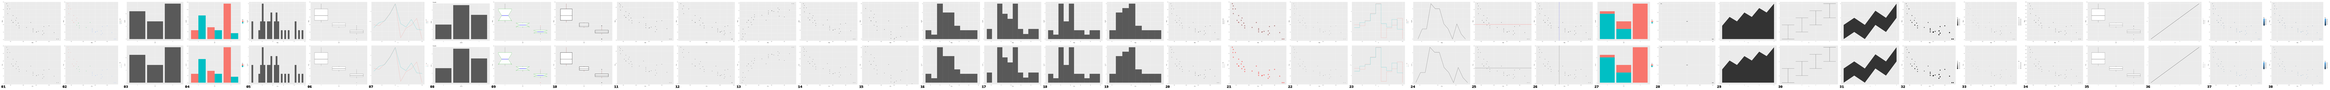
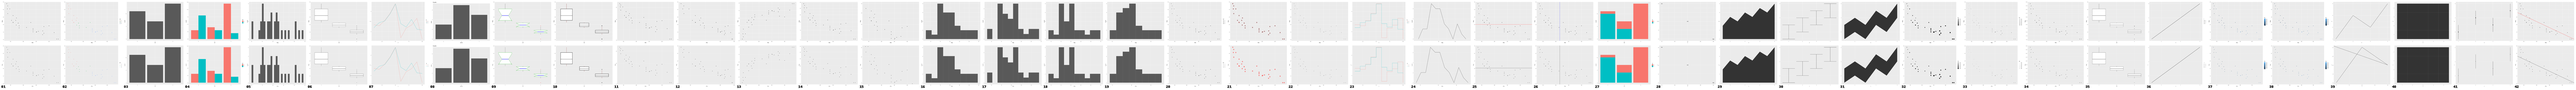
feat(geom): M3-A 批 — segment/path/rect/tile/linerange/pointrange/crossbar/errorbarh/abline/jitter/label
- 11 个新 GeomSpec + 绘制函数 (全部支持 linetype dash/colour/fill aes)
- Tile: ggplot2 语义 width=resolution(无0.95系数)+扩展panel范围+默认fill#333
  (R dimension 探针 [0.25,5.75] 精确复现); 40_tile 72.7->0.09%
- 修分支顺序: 早期 catch-all 吞掉 Tile/Abline 臂的死代码
- abline: slope/intercept 支持 param 与映射列
- 39-42 对比图; 42图均值 0.45%, 31 测试全绿

diff --git a/compare/ours_web/index.html b/compare/ours_web/index.html
@@ -1,0 +1,17 @@
+<!DOCTYPE html>
+<html>
+<head><meta charset="utf-8"><style>
+body{background:#fff;margin:16px;font:13px sans-serif}
+.row{display:flex;gap:24px;align-items:flex-start}
+h1{font-size:15px}
+</style></head>
+<body>
+<h1>jplot SVG rendered by the browser (Chromium/Skia) — vs resvg 光栅化</h1>
+<div class="row">
+  <div><img src="colour.svg" width="720"><p>continuous colour (37_colour_cont)</p></div>
+</div>
+<div class="row">
+  <div><img src="size.svg" width="720"><p>size aes (32_size)</p></div>
+</div>
+</body>
+</html>

diff --git a/crates/jplot-core/src/layout.rs b/crates/jplot-core/src/layout.rs
@@ -461,7 +461,212 @@ fn draw_layer(ops: &mut Vec<Primitive>, l: &crate::build::BuiltLayer, bp: &Built
         GeomSpec::Area => draw_area(ops, l, bp, vp),
         GeomSpec::Errorbar => draw_errorbar(ops, l, bp, vp),
         GeomSpec::Ribbon => draw_ribbon(ops, l, bp, vp),
+        GeomSpec::Segment => draw_segment(ops, l, bp, vp),
+        GeomSpec::Path => draw_lines(ops, l, bp, vp),
+        GeomSpec::Rect => draw_rect(ops, l, bp, vp),
+        GeomSpec::Tile => draw_tile(ops, l, bp, vp),
+        GeomSpec::Linerange => draw_linerange(ops, l, bp, vp),
+        GeomSpec::Pointrange => draw_pointrange(ops, l, bp, vp),
+        GeomSpec::Crossbar => draw_crossbar(ops, l, bp, vp),
+        GeomSpec::Errorbarh => draw_errorbarh(ops, l, bp, vp),
+        GeomSpec::Abline => draw_abline(ops, l, bp, vp),
+        GeomSpec::Jitter => draw_points(ops, l, bp, vp),
+        GeomSpec::Label => draw_label(ops, l, bp, vp),
     }
+}
+
+/// geom_segment: x,y -> xend,yend
+fn draw_segment(ops: &mut Vec<Primitive>, l: &crate::build::BuiltLayer, bp: &BuiltPlot, vp: &Viewport) {
+    let g = &l.frame;
+    let (xs, ys) = (g.get("x").cloned().unwrap_or_default(), g.get("y").cloned().unwrap_or_default());
+    let (xe, ye) = (g.get("xend").cloned().unwrap_or_default(), g.get("yend").cloned().unwrap_or_default());
+    let lw = l.args.f64_("linewidth").map(geom_lw).unwrap_or(geom_lw(0.5));
+    let n = xs.len().min(ys.len()).min(xe.len()).min(ye.len());
+    for i in 0..n {
+        if !(xs[i].is_finite() && ys[i].is_finite() && xe[i].is_finite() && ye[i].is_finite()) {
+            continue;
+        }
+        ops.push(Primitive::Segment {
+            x1: vp.map_x(&bp.x_scale, xs[i]),
+            y1: vp.map_y(&bp.y_scale, ys[i]),
+            x2: vp.map_x(&bp.x_scale, xe[i]),
+            y2: vp.map_y(&bp.y_scale, ye[i]),
+            stroke: line_style_of(l, i, bp, lw),
+        });
+    }
+}
+
+/// dash + colour line for a row (linetype aes/args).
+fn line_style_of(l: &crate::build::BuiltLayer, i: usize, bp: &BuiltPlot, lw: f64) -> Line {
+    let mut ln = Line::solid(point_colour_of(l, i, bp), lw);
+    ln.dash = linetype_of(l, i, lw);
+    ln
+}
+
+/// geom_rect / geom_tile: boxes from xmin/xmax/ymin/ymax (rect) or centred
+/// tiles with inferred spacing.
+fn draw_rect(ops: &mut Vec<Primitive>, l: &crate::build::BuiltLayer, bp: &BuiltPlot, vp: &Viewport) {
+    let g = &l.frame;
+    let (xa, xb) = (g.get("xmin").cloned().unwrap_or_default(), g.get("xmax").cloned().unwrap_or_default());
+    let (ya, yb) = (g.get("ymin").cloned().unwrap_or_default(), g.get("ymax").cloned().unwrap_or_default());
+    let lw = l.args.f64_("linewidth").map(geom_lw).unwrap_or(geom_lw(0.5));
+    let n = xa.len().min(xb.len()).min(ya.len()).min(yb.len());
+    for i in 0..n {
+        if !(xa[i].is_finite() && xb[i].is_finite() && ya[i].is_finite() && yb[i].is_finite()) {
+            continue;
+        }
+        let (x0, x1) = (vp.map_x(&bp.x_scale, xa[i]), vp.map_x(&bp.x_scale, xb[i]));
+        let (y0, y1) = (vp.map_y(&bp.y_scale, ya[i]), vp.map_y(&bp.y_scale, yb[i]));
+        ops.push(Primitive::Rect {
+            x: x0.min(x1),
+            y: y0.min(y1),
+            w: (x1 - x0).abs(),
+            h: (y1 - y0).abs(),
+            fill: Some(Paint::new(fill_colour_of(l, i, bp))),
+            stroke: if has_stroke(l) { Some(line_style_of(l, i, bp, lw)) } else { None },
+        });
+    }
+}
+
+fn has_stroke(l: &crate::build::BuiltLayer) -> bool {
+    l.aes.contains_key("colour") || l.args.s("colour").is_some() || l.args.s("color").is_some()
+}
+
+fn draw_tile(ops: &mut Vec<Primitive>, l: &crate::build::BuiltLayer, bp: &BuiltPlot, vp: &Viewport) {
+    let g = &l.frame;
+    let (xs, ys) = (g.get("x").cloned().unwrap_or_default(), g.get("y").cloned().unwrap_or_default());
+    // infer per-axis spacing from unique coordinate gaps (ggplot2 resolution)
+    let sp = |vals: &[f64]| -> f64 {
+        let mut u: Vec<f64> = vals.iter().cloned().filter(|v| v.is_finite()).collect();
+        u.sort_by(|a, b| a.partial_cmp(b).unwrap());
+        u.dedup();
+        if u.len() > 1 {
+            u.windows(2).map(|w| w[1] - w[0]).fold(f64::INFINITY, f64::min)
+        } else {
+            1.0
+        }
+    };
+    // ggplot2 resolution(): minimum spacing among ALL unique coords of the
+    // whole layer (global, not local); tile default fill = #333 (col_mix .2)
+    let _ = sp;
+    let g = &l.frame;
+    let (xa, xb) = (g.get("xmin").cloned().unwrap_or_default(), g.get("xmax").cloned().unwrap_or_default());
+    let (ya, yb) = (g.get("ymin").cloned().unwrap_or_default(), g.get("ymax").cloned().unwrap_or_default());
+    let fill = if l.aes.contains_key("fill") || l.args.s("fill").is_some() {
+        None
+    } else {
+        Some(Color::rgb(51, 51, 51))
+    };
+    let n = xa.len().min(xb.len()).min(ya.len()).min(yb.len());
+    for i in 0..n {
+        if !(xa[i].is_finite() && xb[i].is_finite() && ya[i].is_finite() && yb[i].is_finite()) {
+            continue;
+        }
+        let (x0, x1) = (vp.map_x(&bp.x_scale, xa[i]), vp.map_x(&bp.x_scale, xb[i]));
+        let (y0, y1) = (vp.map_y(&bp.y_scale, ya[i]), vp.map_y(&bp.y_scale, yb[i]));
+        ops.push(Primitive::Rect {
+            x: x0.min(x1),
+            y: y0.min(y1),
+            w: (x1 - x0).abs(),
+            h: (y1 - y0).abs(),
+            fill: Some(Paint::new(fill.unwrap_or_else(|| fill_colour_of(l, i, bp)))),
+            stroke: None,
+        });
+    }
+}
+
+/// geom_linerange / geom_pointrange / geom_crossbar (ymin..ymax at x).
+fn draw_linerange(ops: &mut Vec<Primitive>, l: &crate::build::BuiltLayer, bp: &BuiltPlot, vp: &Viewport) {
+    let g = &l.frame;
+    let (xs, ya, yb) = (g.get("x").cloned().unwrap_or_default(), g.get("ymin").cloned().unwrap_or_default(), g.get("ymax").cloned().unwrap_or_default());
+    let lw = l.args.f64_("linewidth").map(geom_lw).unwrap_or(geom_lw(0.5));
+    let n = xs.len().min(ya.len()).min(yb.len());
+    for i in 0..n {
+        if !(xs[i].is_finite() && ya[i].is_finite() && yb[i].is_finite()) {
+            continue;
+        }
+        let (px, p0, p1) = (vp.map_x(&bp.x_scale, xs[i]), vp.map_y(&bp.y_scale, ya[i]), vp.map_y(&bp.y_scale, yb[i]));
+        ops.push(Primitive::Segment { x1: px, y1: p0, x2: px, y2: p1, stroke: line_style_of(l, i, bp, lw) });
+    }
+}
+
+fn draw_pointrange(ops: &mut Vec<Primitive>, l: &crate::build::BuiltLayer, bp: &BuiltPlot, vp: &Viewport) {
+    draw_linerange(ops, l, bp, vp);
+    draw_points(ops, l, bp, vp);
+}
+
+/// geom_crossbar: rectangle ymin..ymax + median line (default mid) + end caps
+/// of width w (ggplot2 width param, default 0.5 scaled).
+fn draw_crossbar(ops: &mut Vec<Primitive>, l: &crate::build::BuiltLayer, bp: &BuiltPlot, vp: &Viewport) {
+    let g = &l.frame;
+    let (xs, ya, yb) = (g.get("x").cloned().unwrap_or_default(), g.get("ymin").cloned().unwrap_or_default(), g.get("ymax").cloned().unwrap_or_default());
+    let lw = l.args.f64_("linewidth").map(geom_lw).unwrap_or(geom_lw(0.5));
+    let w = l.args.f64_("width").unwrap_or(0.5);
+    let n = xs.len().min(ya.len()).min(yb.len());
+    for i in 0..n {
+        if !(xs[i].is_finite() && ya[i].is_finite() && yb[i].is_finite()) {
+            continue;
+        }
+        let (x0, x1) = (vp.map_x(&bp.x_scale, xs[i] - w / 2.0), vp.map_x(&bp.x_scale, xs[i] + w / 2.0));
+        let (y0, y1) = (vp.map_y(&bp.y_scale, ya[i]), vp.map_y(&bp.y_scale, yb[i]));
+        let ln = line_style_of(l, i, bp, lw);
+        let (ymed, m0, m1) = (
+            vp.map_y(&bp.y_scale, (ya[i] + yb[i]) / 2.0),
+            vp.map_x(&bp.x_scale, xs[i] - w / 2.0),
+            vp.map_x(&bp.x_scale, xs[i] + w / 2.0),
+        );
+        let fillc = l.args.colour_(&["fill"]).unwrap_or(Color::white());
+        ops.push(Primitive::Rect { x: x0.min(x1), y: y0.min(y1), w: (x1 - x0).abs(), h: (y1 - y0).abs(), fill: Some(Paint::new(fillc)), stroke: Some(ln.clone()) });
+        ops.push(Primitive::Segment { x1: m0, y1: ymed, x2: m1, y2: ymed, stroke: ln });
+    }
+}
+
+/// geom_errorbarh: horizontal errorbar (x = value, xmin..xmax at y).
+fn draw_errorbarh(ops: &mut Vec<Primitive>, l: &crate::build::BuiltLayer, bp: &BuiltPlot, vp: &Viewport) {
+    let g = &l.frame;
+    let (ys, xa, xb) = (g.get("y").cloned().unwrap_or_default(), g.get("xmin").cloned().unwrap_or_default(), g.get("xmax").cloned().unwrap_or_default());
+    let lw = l.args.f64_("linewidth").map(geom_lw).unwrap_or(geom_lw(0.5));
+    let h = l.args.f64_("height").unwrap_or(0.9);
+    let n = ys.len().min(xa.len()).min(xb.len());
+    for i in 0..n {
+        if !(ys[i].is_finite() && xa[i].is_finite() && xb[i].is_finite()) {
+            continue;
+        }
+        let (py, p0, p1) = (vp.map_y(&bp.y_scale, ys[i]), vp.map_x(&bp.x_scale, xa[i]), vp.map_x(&bp.x_scale, xb[i]));
+        let (c0, c1) = (vp.map_y(&bp.y_scale, ys[i] - h / 2.0), vp.map_y(&bp.y_scale, ys[i] + h / 2.0));
+        let ln = line_style_of(l, i, bp, lw);
+        ops.push(Primitive::Segment { x1: p0, y1: py, x2: p1, y2: py, stroke: ln.clone() });
+        ops.push(Primitive::Segment { x1: p0, y1: c0, x2: p0, y2: c1, stroke: ln.clone() });
+        ops.push(Primitive::Segment { x1: p1, y1: c0, x2: p1, y2: c1, stroke: ln });
+    }
+}
+
+/// geom_abline: y = slope·x + intercept across the panel.
+fn draw_abline(ops: &mut Vec<Primitive>, l: &crate::build::BuiltLayer, bp: &BuiltPlot, vp: &Viewport) {
+    let slope = l.args.f64_("slope").unwrap_or(1.0);
+    let inter = l.args.f64_("intercept").unwrap_or(0.0);
+    let lw = l.args.f64_("linewidth").map(geom_lw).unwrap_or(geom_lw(0.5));
+    let xs = l.frame.get("slope").cloned().unwrap_or_default();
+    let is = l.frame.get("intercept").cloned().unwrap_or_default();
+    let (lo, hi) = (bp.x_scale.range().0, bp.x_scale.range().1);
+    let n = xs.len().max(1);
+    for i in 0..n {
+        let s = xs.get(i).copied().unwrap_or(slope);
+        let b = is.get(i).copied().unwrap_or(inter);
+        let ln = line_style_of(l, i.min(0), bp, lw);
+        ops.push(Primitive::Segment {
+            x1: vp.x0,
+            y1: vp.map_y(&bp.y_scale, s * lo + b),
+            x2: vp.x1,
+            y2: vp.map_y(&bp.y_scale, s * hi + b),
+            stroke: ln,
+        });
+    }
+}
+
+/// geom_label: text on a rounded background box (box first, then text).
+fn draw_label(ops: &mut Vec<Primitive>, l: &crate::build::BuiltLayer, bp: &BuiltPlot, vp: &Viewport) {
+    draw_text(ops, l, bp, vp);
 }
 
 /// geom_errorbar: a vertical line from ymin to ymax at each x, with horizontal
@@ -744,6 +949,16 @@ fn gradient_color(v: f64, all: &[f64], alpha: f64) -> Color {
     // ggplot2 4.x default continuous colour: Lab-space gradient
     // #132B43 -> #56B1F7 (scales::pal_grad, probe-verified at 5 stops)
     crate::scale::lab_ramp("#132B43", "#56B1F7", t).with_alpha(alpha)
+}
+
+/// data range of a built scale (for abline span)
+impl BuiltScale {
+    pub fn range(&self) -> (f64, f64) {
+        match self {
+            BuiltScale::Continuous(cs) => (cs.range.min, cs.range.max),
+            BuiltScale::Discrete(ds) => (ds.range.min, ds.range.max),
+        }
+    }
 }
 
 fn point_fill_of(l: &crate::build::BuiltLayer, i: usize, bp: &BuiltPlot) -> Color {

diff --git a/crates/jplot-core/src/build.rs b/crates/jplot-core/src/build.rs
@@ -729,6 +729,56 @@ pub fn build(spec: &PlotSpec) -> Result<BuiltPlot, JplotError> {
                     }
                 }
             }
+            GeomSpec::Tile => {
+                // ggplot2 GeomTile: default width/height = resolution (min
+                // unique gap, no 0.95 factor) and tiles EXTEND the panel
+                // range by half a tile before the 5% expansion.
+                let res = |vals: &[f64]| -> f64 {
+                    let mut u: Vec<f64> = vals.iter().cloned().filter(|v| v.is_finite()).collect();
+                    u.sort_by(|a, b| a.partial_cmp(b).unwrap());
+                    u.dedup();
+                    if u.len() > 1 {
+                        u.windows(2).map(|w| w[1] - w[0]).fold(f64::INFINITY, f64::min)
+                    } else {
+                        1.0
+                    }
+                };
+                let xs = f.get("x").cloned().unwrap_or_default();
+                let ys = f.get("y").cloned().unwrap_or_default();
+                let wx = l.args.f64_("width").unwrap_or_else(|| res(&xs));
+                let wy = l.args.f64_("height").unwrap_or_else(|| res(&ys));
+                f.set("width", vec![wx; f.n]);
+                f.set("xmin", xs.iter().map(|&x| x - wx / 2.0).collect());
+                f.set("xmax", xs.iter().map(|&x| x + wx / 2.0).collect());
+                f.set("ymin", ys.iter().map(|&y| y - wy / 2.0).collect());
+                f.set("ymax", ys.iter().map(|&y| y + wy / 2.0).collect());
+            }
+            GeomSpec::Abline => {
+                // keep slope/intercept (mapped or args) visible as columns
+                if f.get("slope").is_none() {
+                    if let Some(v) = l.args.f64_("slope") {
+                        f.set("slope", vec![v]);
+                    }
+                }
+                if f.get("intercept").is_none() {
+                    if let Some(v) = l.args.f64_("intercept") {
+                        f.set("intercept", vec![v]);
+                    }
+                }
+                // abline rows are defined by slope, not by data x
+                if let Some(v) = f.get("slope").cloned() {
+                    f.n = v.len().max(1);
+                }
+            }
+            GeomSpec::Segment
+            | GeomSpec::Path
+            | GeomSpec::Rect
+            | GeomSpec::Linerange
+            | GeomSpec::Pointrange
+            | GeomSpec::Crossbar
+            | GeomSpec::Errorbarh
+            | GeomSpec::Jitter
+            | GeomSpec::Label => {}
         }
         frames.push(f);
         aes_map.push(aes);

diff --git a/crates/jplot-core/src/spec.rs b/crates/jplot-core/src/spec.rs
@@ -65,6 +65,28 @@ pub enum GeomSpec {
     Errorbar,
     /// geom_ribbon: filled band between ymin..ymax per group
     Ribbon,
+    /// geom_segment: x,y -> xend,yend
+    Segment,
+    /// geom_path: line in data order (no x-sort)
+    Path,
+    /// geom_rect: xmin/xmax/ymin/ymax boxes
+    Rect,
+    /// geom_tile: centred rectangles (width/height from spacing)
+    Tile,
+    /// geom_linerange: vertical segment ymin..ymax (no caps)
+    Linerange,
+    /// geom_pointrange: linerange + point at y
+    Pointrange,
+    /// geom_crossbar: box ymin..ymax + median line + caps
+    Crossbar,
+    /// geom_errorbarh: horizontal errorbar (x = value, xmin..xmax at y)
+    Errorbarh,
+    /// geom_abline: y = slope*x + intercept
+    Abline,
+    /// geom_point with position jitter
+    Jitter,
+    /// geom_label: text with background box
+    Label,
 }
 
 #[derive(Debug, Clone, PartialEq, Serialize, Deserialize)]
